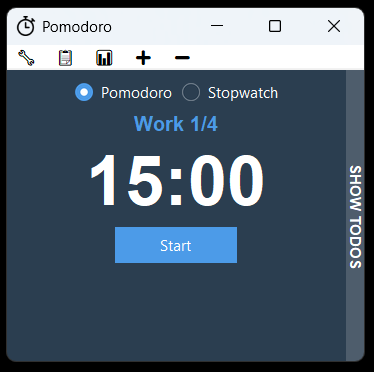
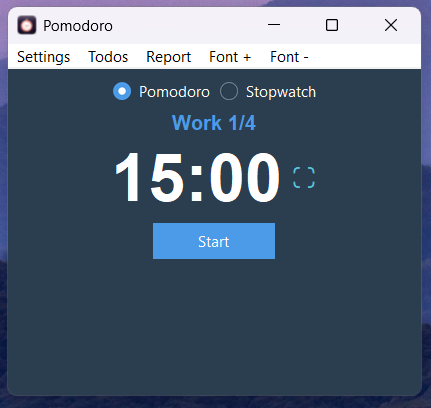
update readme

Changed region(s): [[0.0, 0.0, 1.0, 1.0]]

diff --git a/README.md b/README.md
@@ -1,24 +1,26 @@
 # Pomodoro Timer
-A desktop Pomodoro timer and stopwatch app built with Python and Tkinter (ttkbootstrap). It includes a collapsible todo list, daily stats, sound alerts, and customizable window sizes and transparency.
+A desktop Pomodoro timer and stopwatch app built with Python and Tkinter (ttkbootstrap). It includes todo management, daily stats, sound alerts, and customizable window sizes and transparency.
 
 ## Features
 - Customizable Pomodoro cycles: Work, Short Break, Long Break
 - Endless Timer/Stopwatch mode for custom focus sessions
+- Todo management in a separate window with add, edit, delete, and completion tracking
 - Daily Report with today's focus statistics and a statistics reset option in settings
 - Audio notifications on session completion
 - Adjustable font size for a customizable desktop clock feel
 - Always on top, with transparency option when unfocused (transparency on macOS in progress)
 - Timer maximize and minimize option for minimal distraction
-- Collapsible & Resizable Todo management sidebar
 - Remembers and restores custom window dimensions
 
 ## Screenshots
 
-![screen-1](images/main.png)
+![main](images/main.png)
 
-![screen-1](images/stopwatch.png)
+![maximized](images/maximized.png)
 
-![screen-2](images/todos.png)
+![stopwatch](images/stopwatch.png)
+
+![todos](images/todos.png)
 
 ![settings](images/settings.png)
 
